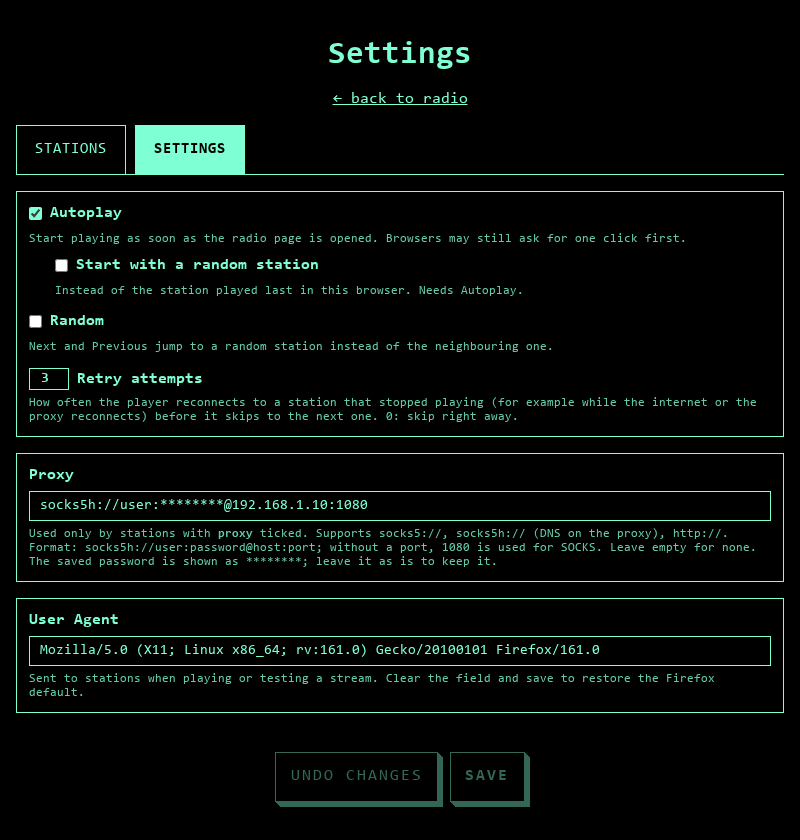
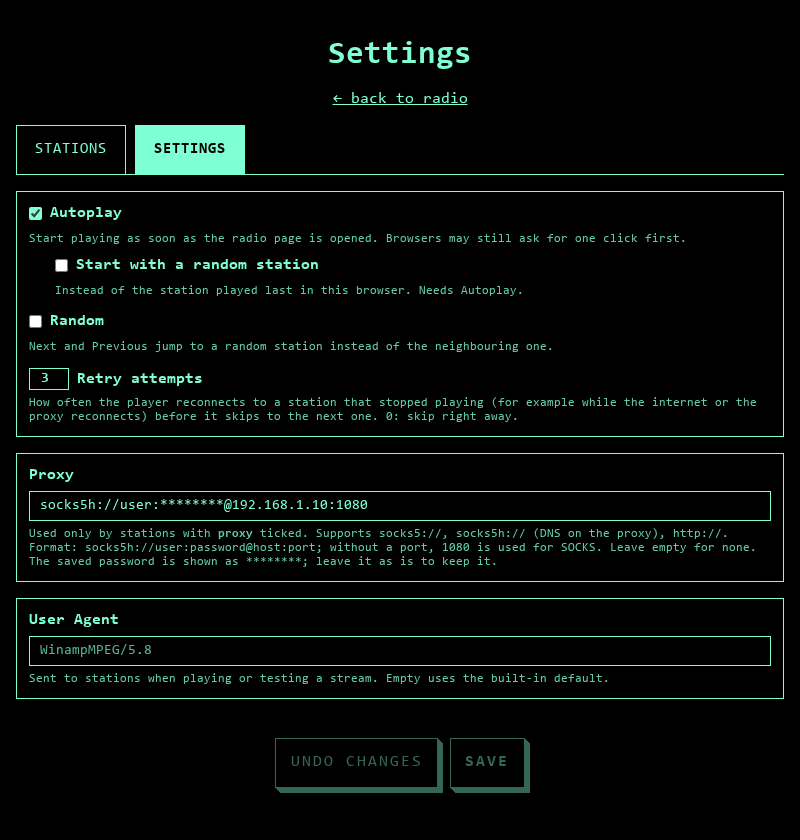
Settings: default the User Agent to Winamp
A browser UA makes Shoutcast-style servers redirect to their status page,
which the stream check then reads as HTML instead of audio. WinampMPEG/5.8
is accepted by SomaFM and gets audio directly from those servers.

Store only a custom override in settings.ini and show the built-in default
as the field placeholder, so saving the settings page does not pin the
current default and later builds can change it. Update the README, example
settings and options screenshot.

diff --git a/assets/templates/settings.html b/assets/templates/settings.html
@@ -62,8 +62,8 @@
 
 		<section class="proxy-box">
 			<label for="user-agent">User Agent</label>
-			<input id="user-agent" autocomplete="off" spellcheck="false">
-			<p class="hint">Sent to stations when playing or testing a stream. Clear the field and save to restore the Firefox default.</p>
+			<input id="user-agent" autocomplete="off" spellcheck="false" placeholder="{{user_agent_default}}">
+			<p class="hint">Sent to stations when playing or testing a stream. Empty uses the built-in default.</p>
 		</section>
 		</div>
 

diff --git a/src/main.rs b/src/main.rs
@@ -92,6 +92,7 @@ struct App {
     random: std::sync::atomic::AtomicBool,
     /// Reconnects to a station that stopped, before the player skips it.
     retries: AtomicUsize,
+    /// User-Agent override; empty uses the built-in default.
     user_agent: RwLock<Arc<str>>,
     stations_file: String,
     sessions: Mutex<HashMap<u64, Session>>,
@@ -133,6 +134,11 @@ impl App {
     }
 
     fn user_agent(&self) -> Arc<str> {
+        let raw = self.user_agent_override();
+        if raw.is_empty() { Arc::from(http::DEFAULT_USER_AGENT) } else { raw }
+    }
+
+    fn user_agent_override(&self) -> Arc<str> {
         self.user_agent.read().unwrap().clone()
     }
 
@@ -522,7 +528,7 @@ async fn save_station_list(app: &App, list: Vec<Station>) -> Result<stations::Se
     let settings = stations::Settings {
         stations: list,
         proxy: app.proxy_raw(),
-        user_agent: app.user_agent().to_string(),
+        user_agent: app.user_agent_override().to_string(),
         password: String::new(),
         autoplay: app.autoplay.load(Ordering::Relaxed),
         random_start: app.random_start.load(Ordering::Relaxed),
@@ -1109,7 +1115,7 @@ fn config_json(app: &App) -> ConfigJson {
     let list = app.stations();
     ConfigJson {
         proxy: mask_proxy(&app.proxy_raw()),
-        user_agent: Some(app.user_agent().to_string()),
+        user_agent: Some(app.user_agent_override().to_string()),
         autoplay: app.autoplay.load(Ordering::Relaxed),
         random_start: app.random_start.load(Ordering::Relaxed),
         random: app.random.load(Ordering::Relaxed),
@@ -1155,7 +1161,7 @@ async fn settings_page(State(app): State<Shared>, headers: HeaderMap) -> Respons
     if let Err(r) = check_auth(&app, &headers).await {
         return r;
     }
-    Html(SETTINGS).into_response()
+    Html(SETTINGS.replace("{{user_agent_default}}", &esc(http::DEFAULT_USER_AGENT))).into_response()
 }
 
 async fn settings_get(State(app): State<Shared>, headers: HeaderMap) -> Response {
@@ -1198,8 +1204,8 @@ async fn apply_settings(app: Shared, input: ConfigJson) -> Response {
             Err(e) => return json_error(StatusCode::BAD_REQUEST, e),
         }
     };
-    let current_agent = app.user_agent();
-    let user_agent = match http::user_agent(input.user_agent.as_deref().unwrap_or(&current_agent)) {
+    let current_agent = app.user_agent_override();
+    let user_agent = match http::validate_user_agent(input.user_agent.as_deref().unwrap_or(&current_agent)) {
         Ok(value) => value.to_string(),
         Err(e) => return json_error(StatusCode::BAD_REQUEST, e),
     };
@@ -1501,7 +1507,7 @@ fn main() {
         autoplay: std::sync::atomic::AtomicBool::new(autoplay),
         random_start: std::sync::atomic::AtomicBool::new(random_start),
         random: std::sync::atomic::AtomicBool::new(random),
-        user_agent: RwLock::new(Arc::from(http::user_agent(&user_agent).unwrap_or_else(|e| fail(e)))),
+        user_agent: RwLock::new(Arc::from(http::validate_user_agent(&user_agent).unwrap_or_else(|e| fail(e)))),
         retries: AtomicUsize::new(retries as usize),
         stations_file,
         sessions: Mutex::new(HashMap::new()),

diff --git a/src/stations.rs b/src/stations.rs
@@ -55,6 +55,7 @@ pub struct Settings {
     pub stations: Vec<Station>,
     /// Proxy URL, "" for none.
     pub proxy: String,
+    /// User-Agent override, "" for the built-in default.
     pub user_agent: String,
     /// Settings page password, "" for none.
     pub password: String,
@@ -74,7 +75,7 @@ pub const MAX_RETRIES: u32 = 10;
 
 impl Default for Settings {
     fn default() -> Self {
-        Settings { stations: Vec::new(), proxy: String::new(), user_agent: crate::http::DEFAULT_USER_AGENT.into(), password: String::new(), autoplay: true, random_start: false, random: false, retries: DEFAULT_RETRIES }
+        Settings { stations: Vec::new(), proxy: String::new(), user_agent: String::new(), password: String::new(), autoplay: true, random_start: false, random: false, retries: DEFAULT_RETRIES }
     }
 }
 
@@ -85,7 +86,7 @@ fn section_name(line: &str) -> Option<&str> {
 pub fn parse(text: &str) -> Settings {
     let mut list: Vec<Station> = Vec::new();
     let mut proxy = String::new();
-    let mut user_agent = crate::http::DEFAULT_USER_AGENT.to_string();
+    let mut user_agent = String::new();
     let mut password = String::new();
     let mut autoplay = true;
     let mut random_start = false;
@@ -104,7 +105,7 @@ pub fn parse(text: &str) -> Settings {
         let (key, value) = (line[..i].trim(), ini_value(&line[i + 1..]));
         // Keys before the first [station] section are global settings.
         match (list.last_mut(), key) {
-            (None, "user_agent") => user_agent = if value.is_empty() { crate::http::DEFAULT_USER_AGENT.into() } else { value },
+            (None, "user_agent") => user_agent = value,
             (None, "proxy_url") => proxy = value,
             (None, "password") => password = value,
             (None, "autoplay") => autoplay = parse_bool(&value),
@@ -190,7 +191,9 @@ pub fn render(s: &Settings) -> String {
     if !s.password.is_empty() {
         out += &format!("password  = {}\n", ini_quote(&s.password));
     }
-    out += &format!("user_agent = '{}'\n", s.user_agent);
+    if !s.user_agent.is_empty() {
+        out += &format!("user_agent = '{}'\n", s.user_agent);
+    }
     if !s.proxy.is_empty() {
         out += &format!("proxy_url = {}\n", ini_quote(&s.proxy));
     }
@@ -325,7 +328,11 @@ mod tests {
         assert_eq!(parse("retries = 0\n[A]\nurl = http://a\n").retries, 0);
         assert_eq!(parse("retries = 99\n[A]\nurl = http://a\n").retries, MAX_RETRIES);
         assert_eq!(parse("retries = x\n[A]\nurl = http://a\n").retries, DEFAULT_RETRIES);
-        assert_eq!(s.user_agent, crate::http::DEFAULT_USER_AGENT);
+        assert!(s.user_agent.is_empty());
+        let unset = Settings { user_agent: String::new(), ..s.clone() };
+        assert!(!render(&unset).contains("user_agent"));
+        assert_eq!(parse(&render(&unset)), unset);
+        assert_eq!(parse("user_agent = ''\n[A]\nurl = http://a\n").user_agent, "");
         let off = Settings { user_agent: "Radio/1.0 (Linux; test)".into(), autoplay: false, random_start: true, random: true, retries: 0, ..s.clone() };
         assert_eq!(parse(&render(&off)), off);
         let list = &s.stations;

diff --git a/src/http.rs b/src/http.rs
@@ -9,14 +9,20 @@ use rustls::pki_types::{CertificateDer, ServerName, pem::PemObject};
 use tokio::io::{AsyncBufReadExt, AsyncRead, AsyncReadExt, AsyncWrite, AsyncWriteExt, BufReader};
 use tokio::net::TcpStream;
 
-// Some stream hosts (e.g. SomaFM) reject unknown clients without a User-Agent.
-pub const DEFAULT_USER_AGENT: &str = "Mozilla/5.0 (X11; Linux x86_64; rv:161.0) Gecko/20100101 Firefox/161.0";
+// Some stream hosts (e.g. SomaFM) reject unknown clients without a User-Agent;
+// a player UA also keeps Shoutcast-style servers from serving their web page.
+pub const DEFAULT_USER_AGENT: &str = "WinampMPEG/5.8";
 
-pub fn user_agent(value: &str) -> Result<&str, &'static str> {
+/// Checks a saved User-Agent override; "" means "use the built-in default".
+pub fn validate_user_agent(value: &str) -> Result<&str, &'static str> {
     if !value.bytes().all(|b| (b' '..=b'~').contains(&b)) {
         return Err("User Agent must contain only printable ASCII characters");
     }
-    let value = value.trim();
+    Ok(value.trim())
+}
+
+pub fn user_agent(value: &str) -> Result<&str, &'static str> {
+    let value = validate_user_agent(value)?;
     Ok(if value.is_empty() { DEFAULT_USER_AGENT } else { value })
 }
 
@@ -623,6 +629,18 @@ mod tests {
         assert_eq!(Proxy::parse("socks5h://guest:pw@").unwrap_err(), "proxy needs a host, e.g. socks5://192.168.1.10:1080");
         assert!(Proxy::parse("ftp://x").unwrap_err().starts_with("proxy must start"));
         assert!(Proxy::parse("192.168.1.10:1080").unwrap_err().starts_with("proxy must start"));
+    }
+
+    #[test]
+    fn user_agents() {
+        assert_eq!(user_agent("").unwrap(), DEFAULT_USER_AGENT);
+        assert_eq!(user_agent("   ").unwrap(), DEFAULT_USER_AGENT);
+        assert_eq!(user_agent(" WinampMPEG/5.8 ").unwrap(), "WinampMPEG/5.8");
+        assert!(user_agent("bad\r\nX: 1").is_err());
+        assert!(user_agent("Café").is_err());
+        assert_eq!(validate_user_agent("").unwrap(), "");
+        assert_eq!(validate_user_agent(" My Radio/1.0 ").unwrap(), "My Radio/1.0");
+        assert!(validate_user_agent("Café").is_err());
     }
 
     #[test]

diff --git a/README.md b/README.md
@@ -100,7 +100,8 @@ away.
 - **Proxy**: `socks5://`, `socks5h://` (DNS on the proxy), `http://` or
   `https://`. The saved password is shown as `********`
 - **User Agent** sets the HTTP header sent to stations during playback, metadata
-  requests, and stream tests. Clear it and save to restore the Firefox default.
+  requests, and stream tests. Leave it empty to use the built-in default (shown
+  as the placeholder); a saved value overrides it.
 
 ![Settings: options](docs/settings-options.png)
 
@@ -234,8 +235,9 @@ favorite  = true
 - `password`: settings page password; without it the page is open
 - `proxy_url`: `socks5://`, `socks5h://` (DNS on the proxy), `http://` or
   `https://`; without a port, 1080 is used for SOCKS
-- `user_agent` sets the outbound User-Agent. The default is desktop Firefox on
-  Linux. Quote custom values containing semicolons or `#` in the INI file.
+- `user_agent` sets the outbound User-Agent; leave it out or empty to use the
+  built-in default (`WinampMPEG/5.8`). Quote custom values containing
+  semicolons or `#` in the INI file.
 - `autoplay`: start playing as soon as the player page opens (default true)
 - `random_start`: with `autoplay`, start with a random station instead of
   the one played last in this browser
